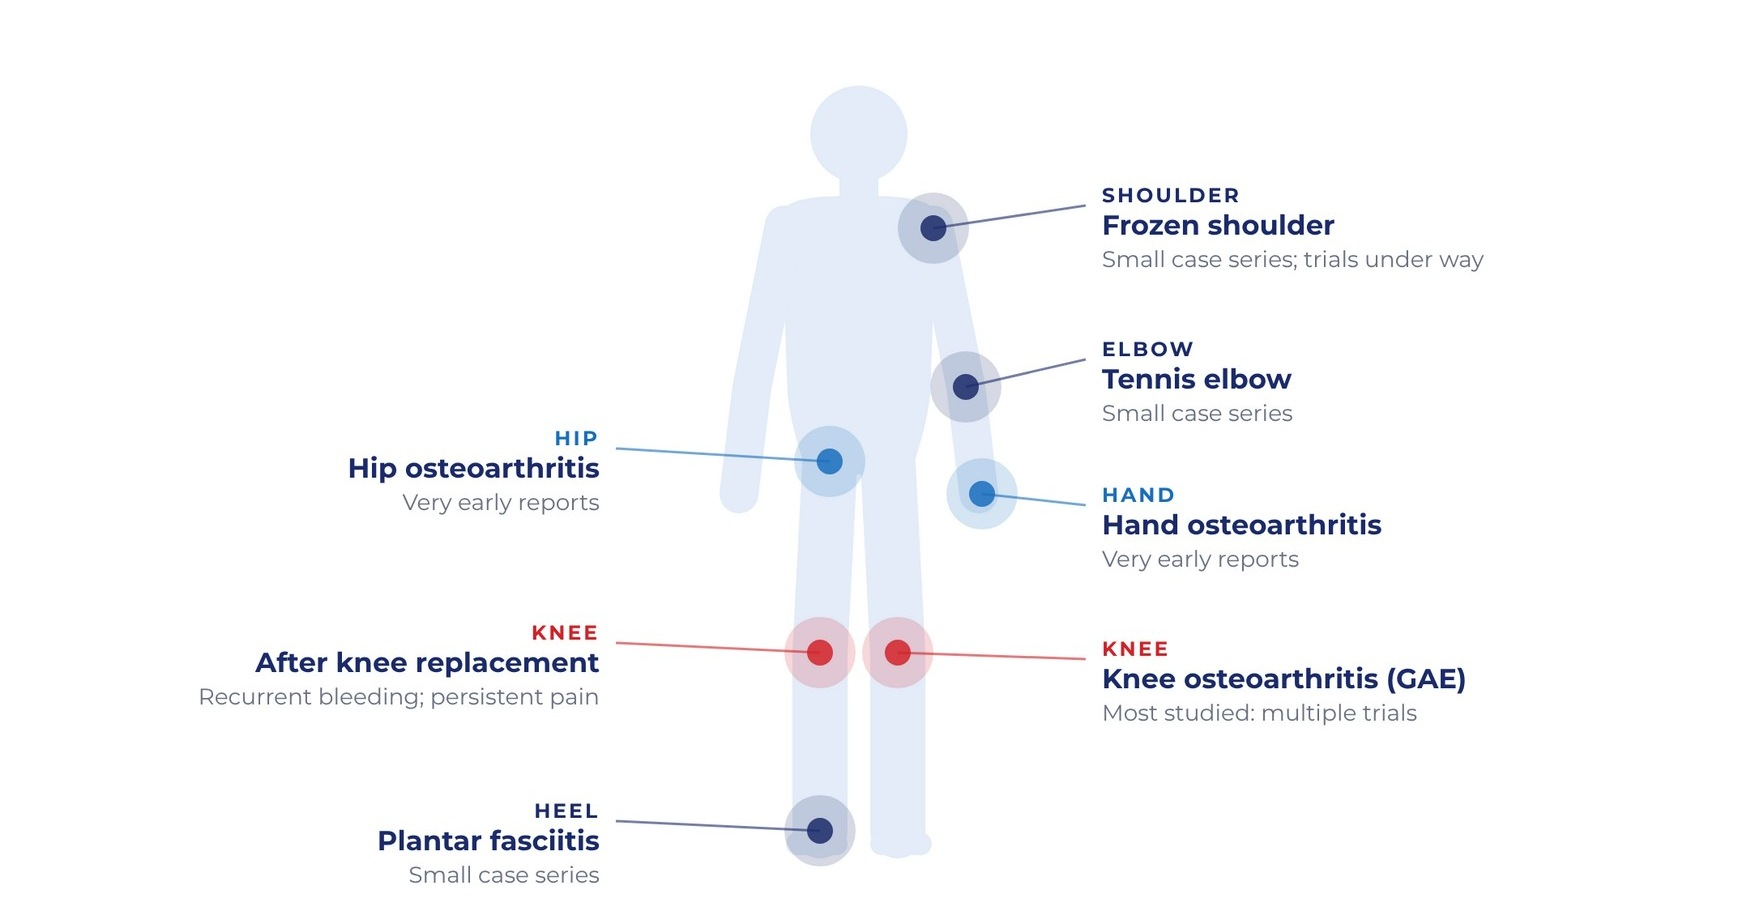
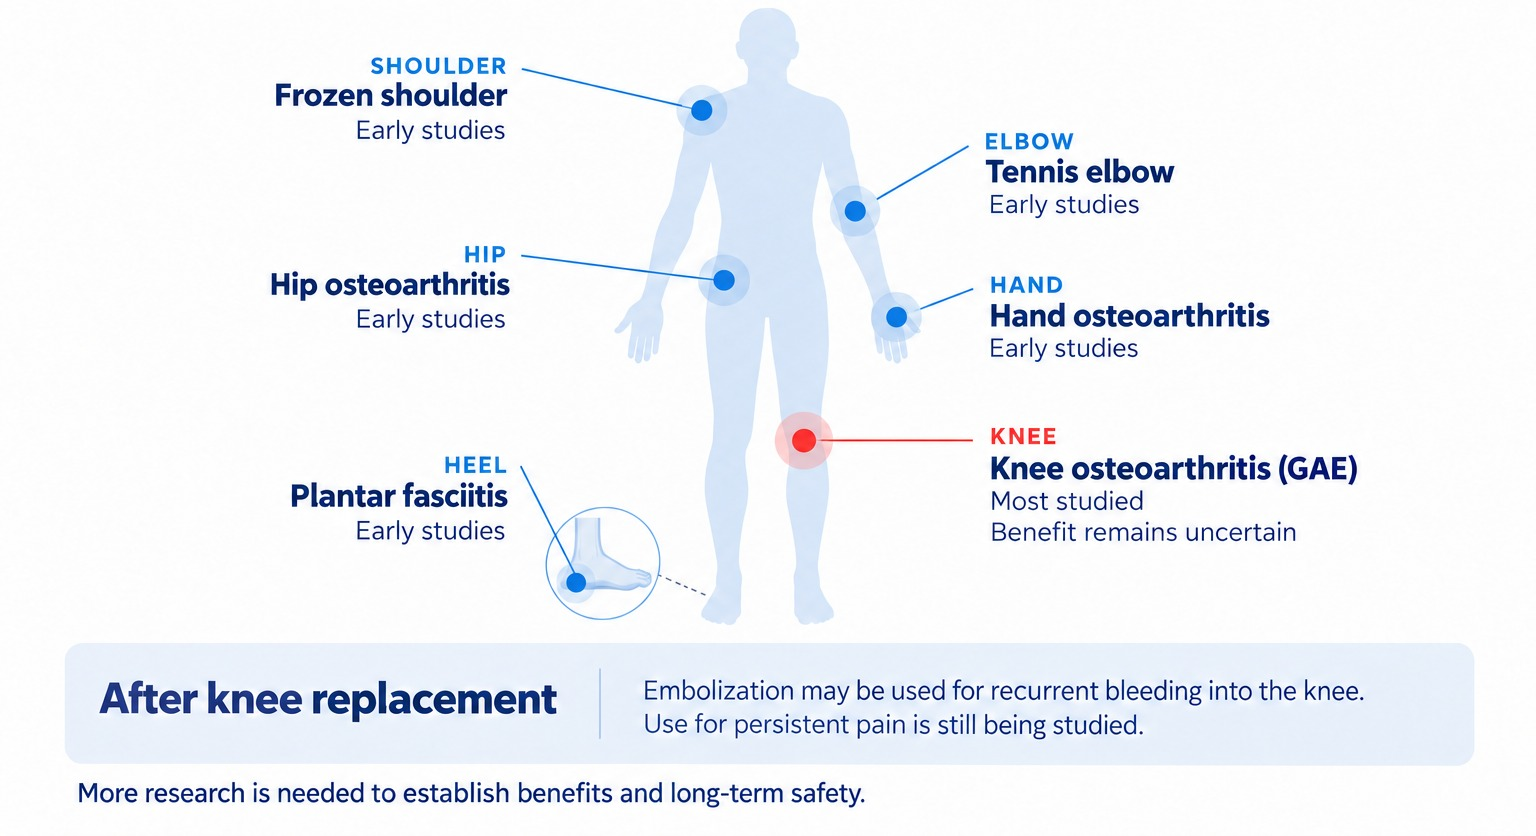
Flip J24a: new where-embolization-is-studied illustration
Claude-Session: https://claude.ai/code/session_011FeJdRfmDCgTZcMtNMgwbg

Changed region(s): [[0.0312, 0.0, 0.9688, 0.9952], [0.1562, 0.2799, 0.3438, 0.4043], [0.1562, 0.0622, 0.3438, 0.1866]]

diff --git a/js/templates.js b/js/templates.js
@@ -895,7 +895,7 @@ window.AJPVC_TEMPLATES = [
     "label": "J24a · Embolization Beyond the Knee (patient side)",
     "w": 1056,
     "h": 816,
-    "html": "<div style=\"width: 1056px; height: 816px; box-sizing: border-box; background: #FFFEFB; color: #1B2440; font-family: 'Public Sans', sans-serif; display: flex; flex-direction: column; padding: 34px 44px 26px; gap: 20px\">\n<div style=\"display: flex; justify-content: space-between; align-items: flex-end; gap: 24px; border-bottom: 5px solid #C8231E; padding-bottom: 14px\">\n<div style=\"display: flex; flex-direction: column; gap: 4px\"><p style=\"margin: 0; font-family: 'Montserrat', sans-serif; font-weight: 700; font-size: 15px; letter-spacing: 3px; text-transform: uppercase; color: #C8231E\">Joint pain</p>\n<h1 style=\"margin: 0; font-family: 'Montserrat', sans-serif; font-weight: 800; font-size: 44px; line-height: 1.05; color: #16306E\">Embolization Beyond the Knee</h1></div>\n<div style=\"display: flex; align-items: center; gap: 14px\"><img src=\"assets/logo-hvlc.png\" alt=\"Heart Vascular &amp; Leg Center logo\" style=\"height: 34px; width: 78px; object-fit: contain; object-position: left center\"><span style=\"width: 1px; height: 27px; background: #E2DED4\"></span><img src=\"assets/logo-long-nodivision.png\" alt=\"Advanced Joint Pain &amp; Vascular Center logo\" style=\"height: 34px; width: 129px; object-fit: contain; object-position: left center\"></div></div>\n<main style=\"flex: 1; min-height: 0; display: flex; flex-direction: column; gap: 16px\"><div style=\"flex: 1; min-height: 0; display: flex; flex-direction: column; gap: 10px\"><div style=\"flex: 1; min-height: 0; min-width: 0; background: #FFFFFF; border-radius: 18px; overflow: hidden; display: flex\"><img src=\"assets/book-beyond.jpg\" alt=\"Body outline marking where embolization is used: shoulder, elbow, hand, hip, knee and heel\" style=\"width: 100%; height: 100%; object-fit: contain; object-position: 50% 50%; display: block\"></div></div><div style=\"display: flex; gap: 24px\"><div style=\"flex: 1; min-width: 0; display: flex; gap: 12px; align-items: flex-start; border-top: 4px solid #C8231E; padding-top: 12px\"><p style=\"margin: 0; font-size: 22px; line-height: 1.32; color: #1B2440\">The same idea is being tried in the shoulder, elbow, and heel.</p></div><div style=\"flex: 1; min-width: 0; display: flex; gap: 12px; align-items: flex-start; border-top: 4px solid #C8231E; padding-top: 12px\"><p style=\"margin: 0; font-size: 22px; line-height: 1.32; color: #1B2440\">Research is early, mostly small studies, and results vary.</p></div><div style=\"flex: 1; min-width: 0; display: flex; gap: 12px; align-items: flex-start; border-top: 4px solid #C8231E; padding-top: 12px\"><p style=\"margin: 0; font-size: 22px; line-height: 1.32; color: #1B2440\">Regular care comes first; this is for pain that won’t improve.</p></div></div></main></div>"
+    "html": "<div style=\"width: 1056px; height: 816px; box-sizing: border-box; background: #FFFEFB; color: #1B2440; font-family: 'Public Sans', sans-serif; display: flex; flex-direction: column; padding: 34px 44px 26px; gap: 20px\">\n<div style=\"display: flex; justify-content: space-between; align-items: flex-end; gap: 24px; border-bottom: 5px solid #C8231E; padding-bottom: 14px\">\n<div style=\"display: flex; flex-direction: column; gap: 4px\"><p style=\"margin: 0; font-family: 'Montserrat', sans-serif; font-weight: 700; font-size: 15px; letter-spacing: 3px; text-transform: uppercase; color: #C8231E\">Joint pain</p>\n<h1 style=\"margin: 0; font-family: 'Montserrat', sans-serif; font-weight: 800; font-size: 44px; line-height: 1.05; color: #16306E\">Embolization Beyond the Knee</h1></div>\n<div style=\"display: flex; align-items: center; gap: 14px\"><img src=\"assets/logo-hvlc.png\" alt=\"Heart Vascular &amp; Leg Center logo\" style=\"height: 34px; width: 78px; object-fit: contain; object-position: left center\"><span style=\"width: 1px; height: 27px; background: #E2DED4\"></span><img src=\"assets/logo-long-nodivision.png\" alt=\"Advanced Joint Pain &amp; Vascular Center logo\" style=\"height: 34px; width: 129px; object-fit: contain; object-position: left center\"></div></div>\n<main style=\"flex: 1; min-height: 0; display: flex; flex-direction: column; gap: 16px\"><div style=\"flex: 1; min-height: 0; display: flex; flex-direction: column; gap: 10px\"><div style=\"flex: 1; min-height: 0; min-width: 0; background: #FFFFFF; border-radius: 18px; overflow: hidden; display: flex\"><img src=\"assets/book-beyond.jpg\" alt=\"Body outline marking where embolization is being studied: frozen shoulder, tennis elbow, hip and hand osteoarthritis, and plantar fasciitis in early studies, and knee osteoarthritis (GAE) as the most studied, plus use after knee replacement\" style=\"width: 100%; height: 100%; object-fit: contain; object-position: 50% 50%; display: block\"></div></div><div style=\"display: flex; gap: 24px\"><div style=\"flex: 1; min-width: 0; display: flex; gap: 12px; align-items: flex-start; border-top: 4px solid #C8231E; padding-top: 12px\"><p style=\"margin: 0; font-size: 22px; line-height: 1.32; color: #1B2440\">Also being studied: shoulder, elbow, hip, hand and heel.</p></div><div style=\"flex: 1; min-width: 0; display: flex; gap: 12px; align-items: flex-start; border-top: 4px solid #C8231E; padding-top: 12px\"><p style=\"margin: 0; font-size: 22px; line-height: 1.32; color: #1B2440\">Research is early, mostly small studies, and results vary.</p></div><div style=\"flex: 1; min-width: 0; display: flex; gap: 12px; align-items: flex-start; border-top: 4px solid #C8231E; padding-top: 12px\"><p style=\"margin: 0; font-size: 22px; line-height: 1.32; color: #1B2440\">Regular care comes first; this is for pain that won’t improve.</p></div></div></main></div>"
    },
    {
     "label": "J24b · Embolization Beyond the Knee (provider side)",

diff --git a/source/FlipJ24Beyond.dc.html b/source/FlipJ24Beyond.dc.html
@@ -18,7 +18,7 @@ body{margin:0}
 <div style="display: flex; flex-direction: column; gap: 4px"><p style="margin: 0; font-family: 'Montserrat', sans-serif; font-weight: 700; font-size: 15px; letter-spacing: 3px; text-transform: uppercase; color: #C8231E">Joint pain</p>
 <h1 style="margin: 0; font-family: 'Montserrat', sans-serif; font-weight: 800; font-size: 44px; line-height: 1.05; color: #16306E">Embolization Beyond the Knee</h1></div>
 <div style="display: flex; align-items: center; gap: 14px"><img src="/_blob/1e4ce51a5c3cb793b6317890e43e495e" alt="Heart Vascular &amp; Leg Center logo" style="height: 34px; width: 78px; object-fit: contain; object-position: left center"><span style="width: 1px; height: 27px; background: #E2DED4"></span><img src="/_blob/48c0202744b17fe1f033a36586de7a92" alt="Advanced Joint Pain &amp; Vascular Center logo" style="height: 34px; width: 129px; object-fit: contain; object-position: left center"></div></div>
-<main style="flex: 1; min-height: 0; display: flex; flex-direction: column; gap: 16px"><div style="flex: 1; min-height: 0; display: flex; flex-direction: column; gap: 10px"><div style="flex: 1; min-height: 0; min-width: 0; background: #FFFFFF; border-radius: 18px; overflow: hidden; display: flex"><img src="/_blob/c3ad3b23a3affbf842477cb0eb2ca220" alt="Body outline marking where embolization is used: shoulder, elbow, hand, hip, knee and heel" style="width: 100%; height: 100%; object-fit: contain; object-position: 50% 50%; display: block"></div></div><div style="display: flex; gap: 24px"><div style="flex: 1; min-width: 0; display: flex; gap: 12px; align-items: flex-start; border-top: 4px solid #C8231E; padding-top: 12px"><p style="margin: 0; font-size: 22px; line-height: 1.32; color: #1B2440">The same idea is being tried in the shoulder, elbow, and heel.</p></div><div style="flex: 1; min-width: 0; display: flex; gap: 12px; align-items: flex-start; border-top: 4px solid #C8231E; padding-top: 12px"><p style="margin: 0; font-size: 22px; line-height: 1.32; color: #1B2440">Research is early, mostly small studies, and results vary.</p></div><div style="flex: 1; min-width: 0; display: flex; gap: 12px; align-items: flex-start; border-top: 4px solid #C8231E; padding-top: 12px"><p style="margin: 0; font-size: 22px; line-height: 1.32; color: #1B2440">Regular care comes first; this is for pain that won’t improve.</p></div></div></main></div>
+<main style="flex: 1; min-height: 0; display: flex; flex-direction: column; gap: 16px"><div style="flex: 1; min-height: 0; display: flex; flex-direction: column; gap: 10px"><div style="flex: 1; min-height: 0; min-width: 0; background: #FFFFFF; border-radius: 18px; overflow: hidden; display: flex"><img src="/_blob/645007f0d77d81f71023fcff9ad3bbe9" alt="Body outline marking where embolization is being studied: frozen shoulder, tennis elbow, hip and hand osteoarthritis, and plantar fasciitis in early studies, and knee osteoarthritis (GAE) as the most studied, plus use after knee replacement" style="width: 100%; height: 100%; object-fit: contain; object-position: 50% 50%; display: block"></div></div><div style="display: flex; gap: 24px"><div style="flex: 1; min-width: 0; display: flex; gap: 12px; align-items: flex-start; border-top: 4px solid #C8231E; padding-top: 12px"><p style="margin: 0; font-size: 22px; line-height: 1.32; color: #1B2440">Also being studied: shoulder, elbow, hip, hand and heel.</p></div><div style="flex: 1; min-width: 0; display: flex; gap: 12px; align-items: flex-start; border-top: 4px solid #C8231E; padding-top: 12px"><p style="margin: 0; font-size: 22px; line-height: 1.32; color: #1B2440">Research is early, mostly small studies, and results vary.</p></div><div style="flex: 1; min-width: 0; display: flex; gap: 12px; align-items: flex-start; border-top: 4px solid #C8231E; padding-top: 12px"><p style="margin: 0; font-size: 22px; line-height: 1.32; color: #1B2440">Regular care comes first; this is for pain that won’t improve.</p></div></div></main></div>
 </x-dc>
 <script type="text/x-dc" data-dc-script data-props='{"$preview":{"width":1056,"height":816}}'>
 class Component extends DCLogic {
